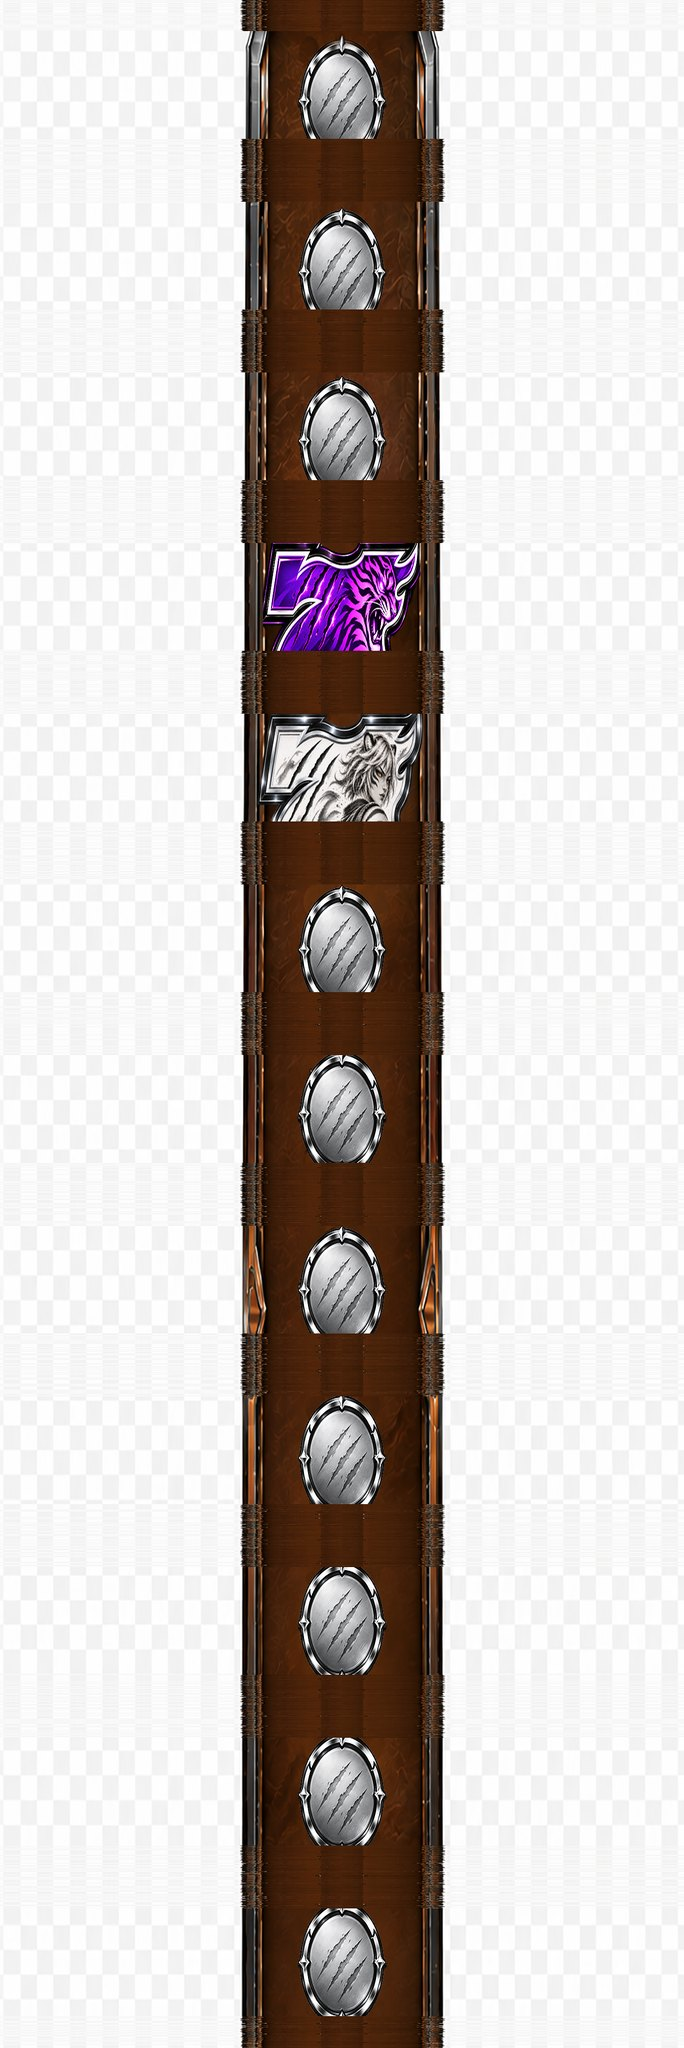
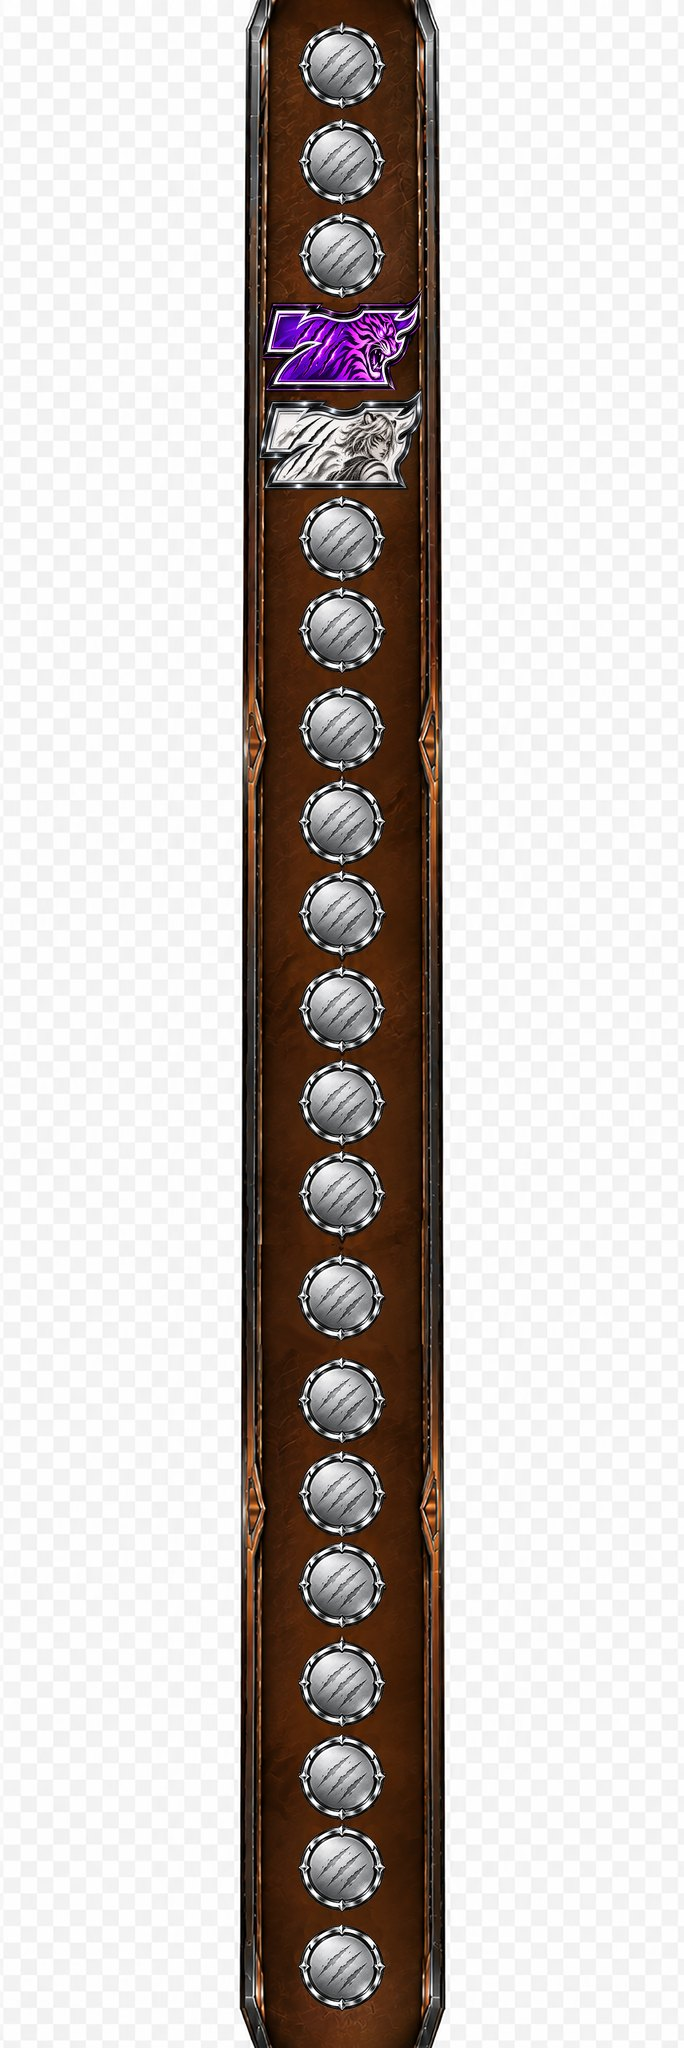
TORAMI RUSH v6: リール帯を最初の取り込み状態（21コマ・元の絵のまま）に戻す
Claude-Session: https://claude.ai/code/session_01CfEbAdSr1Zeg74JTK1dqK1

Changed region(s): [[0.3377, 0.0, 0.6754, 1.0]]

diff --git a/torecacorp/tora-rush-v6/index.html b/torecacorp/tora-rush-v6/index.html
@@ -513,19 +513,19 @@ const camera=new THREE.PerspectiveCamera(24,1.5,10,3000);camera.position.set(0,2
 function resize(){const w=canvas.clientWidth,h=canvas.clientHeight;if(!w||!h)return;renderer.setSize(w,h,false);camera.aspect=w/h;const tf=2*Math.tan(THREE.MathUtils.degToRad(camera.fov/2));camera.position.z=Math.max(196/camera.aspect/tf,146/tf);camera.updateProjectionMatrix()}
 addEventListener("resize",resize);
 const tl=new THREE.TextureLoader();const loadTex=f=>new Promise((res,rej)=>tl.load("model/"+f,t=>{t.colorSpace=THREE.SRGBColorSpace;t.anisotropy=4;res(t)},undefined,rej));
-const PIV={y:-18.206274,z:-28.074114},PITCH=Math.PI*2/12,REELX=[-55,0,55],W7=141.2*Math.PI/180;
-// リール帯（L/C/R・12コマ／ゆうぽんさんの絵から作成）。上段＝c-1、下段＝c+1
+const PIV={y:-18.206274,z:-28.074114},PITCH=Math.PI*2/21,REELX=[-55,0,55],W7=141.2*Math.PI/180;
+// リール帯（L/C/R・21コマ／ゆうぽんさん 11/27版をそのまま使用）。上段＝c-1、下段＝c+1
 const CELL_OFF=0;
-const CELL=c=>(5.5-CELL_OFF-c)*PITCH; // 12コマ：コマcを中段に止める角度
-// 7の位置：L＝紫0,1／白6,7　C＝紫3／白4　R＝紫1,2／白7,8（縦2連）
+const CELL=c=>(13-CELL_OFF-c)*PITCH; // 21コマ：コマcを中段に止める角度
+// 7の位置：L＝紫0,1／白10,11　C＝紫3／白4　R＝紫1,2／白11,12（縦2連）
 // シングル＝中段1ラインだけ（L・Rは7が中段＋下段）。ダブル＝中段＋右下がり斜めの2ライン（Lは上段＋中段、Rは中段＋下段）
 // ハズレ＝L・Cは中段に7（テンパイ）。Lは上段＋中段、Rは7が上段（1コマ手前）→ 右上がり斜めも揃わない
-const TG={pS:[0,3,1],pW:[1,3,1],wS:[6,4,7],wW:[7,4,7],missP:[1,3,3],missW:[7,4,9]};
+const TG={pS:[0,3,1],pW:[1,3,1],wS:[10,4,11],wW:[11,4,11],missP:[1,3,3],missW:[11,4,13]};
 Object.keys(TG).forEach(k=>TG[k]=TG[k].map(CELL));
-const HOME=[CELL(3),CELL(8),CELL(5)]; // 待機位置：3本ともコインの位置（7が見えない）
+const HOME=[CELL(5),CELL(12),CELL(7)]; // 待機位置：3本ともコインの位置（7が見えない）
 // 止まり方のパターン（11/28）：リール帯から「どのラインに何本揃うか」を全通り計算して、毎回ランダムに選ぶ
 //  シングル＝5ライン（上・中・下・右下がり・右上がり）のどれか1本、ダブル＝2本。ハズレ＝0本で、右リールの外れ方を数パターン
-const NC=12;const STRIP=[{P:[0,1],W:[6,7]},{P:[3],W:[4]},{P:[1,2],W:[7,8]}].map(o=>{const a=Array(NC).fill("-");o.P.forEach(c=>a[c]="P");o.W.forEach(c=>a[c]="W");return a});
+const NC=21;const STRIP=[{P:[0,1],W:[6,7]},{P:[3],W:[4]},{P:[1,2],W:[7,8]}].map(o=>{const a=Array(NC).fill("-");o.P.forEach(c=>a[c]="P");o.W.forEach(c=>a[c]="W");return a});
 const sym=(r,c)=>STRIP[r][((c%NC)+NC)%NC];
 const LINES=[[-1,-1,-1],[0,0,0],[1,1,1],[-1,0,1],[1,0,-1]]; // 上段・中段・下段・右下がり・右上がり
 const LNAME=["上段","中段","下段","右下がり","右上がり"];
@@ -533,7 +533,7 @@ function evalCells(cs){const hit={P:[],W:[]};LINES.forEach((L,li)=>{const a=sym(
   const edge=[-2,2].some(o=>{const a=sym(0,cs[0]+o);return a!=="-"&&a===sym(1,cs[1]+o)&&a===sym(2,cs[2]+o)}); // 枠外の段（見える上下2段）にも揃って見えないように
   return{hit,edge}}
 const PAT={P1:[],P2:[],W1:[],W2:[],missP:{},missW:{}};
-for(let a=0;a<NC;a++)for(let b=0;b<NC;b++)for(let c=0;c<NC;c++){const cs=[a,b,c],e=evalCells(cs);
+for(let a=0;a<NC;a++)for(let b=0;b<NC;b++)for(let c=0;c<NC;c++){const cs=[a,b,c],e=evalCells(cs);if(e.edge)continue;
   for(const X of ["P","W"]){const Y=X==="P"?"W":"P";
     if(e.hit[Y].length)continue;
     if(e.hit[X].length===1)PAT[X+"1"].push({cs,lines:e.hit[X]});
@@ -551,16 +551,9 @@ function pickMiss(X){const M=PAT["miss"+X];let tot=0;const ks=Object.keys(MISSW)
 let tex={},machineMat,reels=[],ready=false;
 async function init3d(){
   const [dark,on,bright,rL,rC,rR,bL,bC,bR]=await Promise.all(["slot_dark.jpg","slot_on.jpg","slot_bright.jpg","reel_L.jpg","reel_C.jpg","reel_R.jpg","blur_L.jpg","blur_C.jpg","blur_R.jpg"].map(loadTex));
-  [rL,rC,rR,bL,bC,bR].forEach(t=>{t.wrapT=THREE.RepeatWrapping;t.needsUpdate=true});
   tex={dark,on,bright,reels:[{reel:rL,blur:bL},{reel:rC,blur:bC},{reel:rR,blur:bR}]}; // リール帯はL／C／R別（ゆうぽんさん 11/27 版）
   const L=new OBJLoader();const [m,r]=await Promise.all([L.loadAsync("model/Slot_Machine.obj"),L.loadAsync("model/Reel.obj")]);
   machineMat=new THREE.MeshBasicMaterial({map:dark});m.traverse(o=>{if(o.isMesh)o.material=machineMat});scene.add(m);
-  // リール面のUVを角度から作り直す（元モデルのUVは1周の96%しか使わず、つなぎ目で絵が潰れていた）。1周＝リール帯1本ぶん
-  r.traverse(o=>{if(!o.isMesh)return;const pos=o.geometry.attributes.position,uv=o.geometry.attributes.uv;if(!uv)return;
-    for(let k=0;k<pos.count;k++){const y=pos.getY(k)-PIV.y,z=pos.getZ(k)-PIV.z;if(Math.hypot(y,z)<45)continue;uv.setY(k,0.5+Math.atan2(y,z)/(Math.PI*2))}
-    // つなぎ目をまたぐ三角形は、vが0付近の頂点を+1して連続にする（テクスチャは縦方向リピート）
-    if(!o.geometry.index)for(let t=0;t<pos.count;t+=3){const v=[uv.getY(t),uv.getY(t+1),uv.getY(t+2)];if(Math.max(...v)-Math.min(...v)>0.5)for(let q=0;q<3;q++)if(v[q]<0.5)uv.setY(t+q,v[q]+1)}
-    uv.needsUpdate=true});
   REELX.forEach((x,ri)=>{const g=new THREE.Group();g.position.set(x,PIV.y,PIV.z);const mat=new THREE.MeshBasicMaterial({map:tex.reels[ri].reel});const c=r.clone();c.traverse(o=>{if(o.isMesh)o.material=mat});c.position.set(0,-PIV.y,-PIV.z);g.add(c);scene.add(g);reels.push({g,mat,tex:tex.reels[ri],ang:HOME[reels.length],w:0,state:"idle"});g.rotation.x=HOME[reels.length-1]});
   resize();ready=true;window.RUSH_DBG={reels,PITCH,TG,HOME,PAT:()=>PAT,pickWin,pickMiss};idle();
 }
